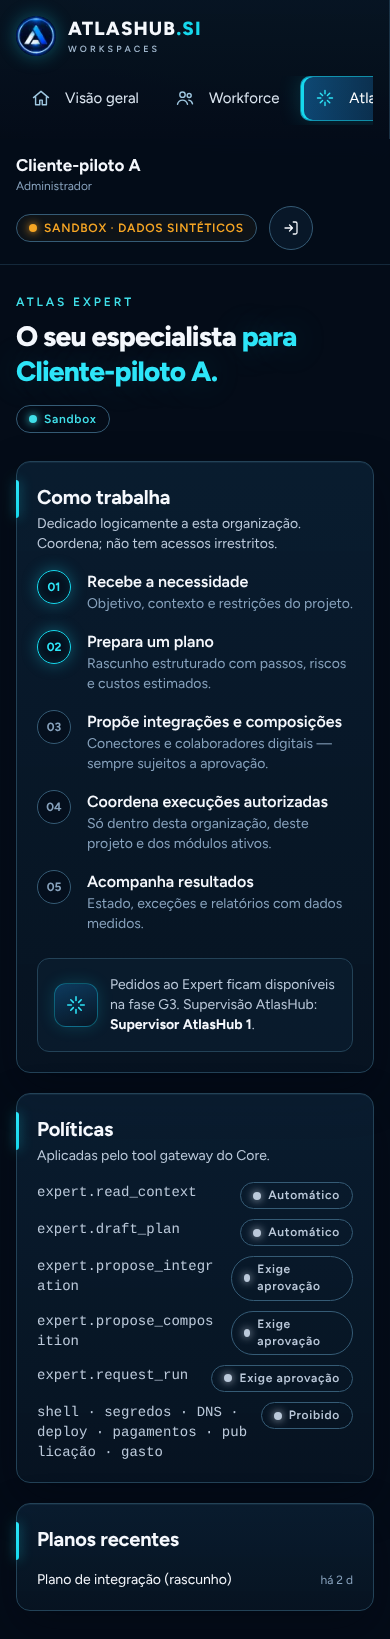
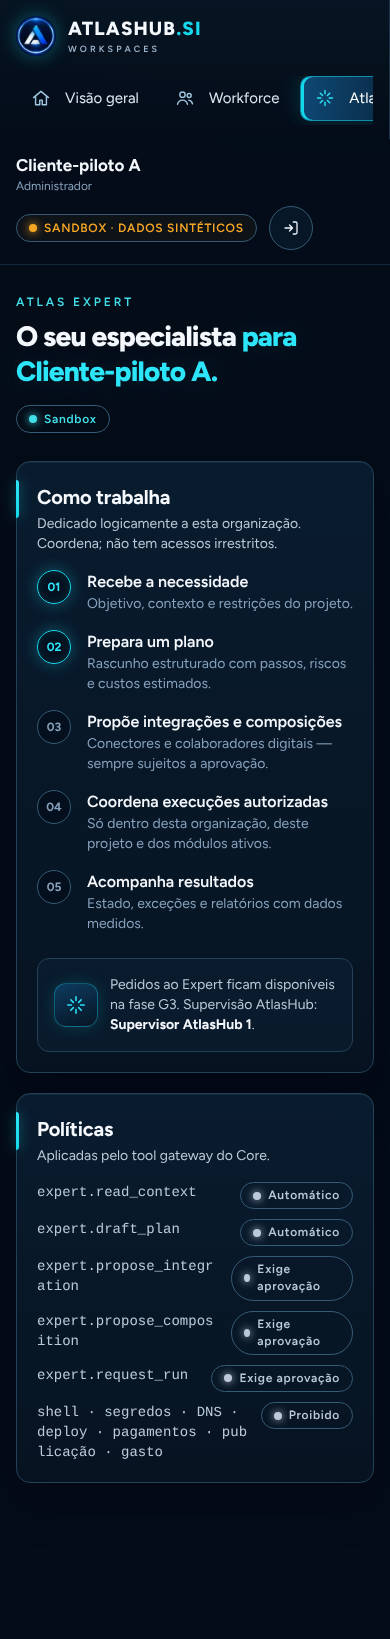
fix(codex): 403/404 do Core → 404; dados reais vs sintéticos; limite de runs; alvos 44 px
P1 — onCoreError mapeia 403/404 para notFound() (indistinguível de tenant
inexistente, ex.: membership revogada entre /v1/me e o pedido); outros erros
vão para um error boundary honesto ("Serviço indisponível"), nunca 500 cru.
P1 — isSynthetic(mode, membership): "em sandbox"/"dados sintéticos" só em
modo demo ou tenant marcado sandbox pelo Core; em modo api o resto é real.
P2 — HttpCore.runs envia limit e corta a página (igual ao DemoCore).
P2 — "Trocar", "Abrir" e "Ver Workforce" com alvo de 44 px (medido).
Testes 16/16; visual-check 29/29. Visual Pack sem alterações de tokens.

Claude-Session: https://claude.ai/code/session_01RiTWecs9GyFrENyGvLscb5

Changed region(s): [[0.0308, 0.9024, 0.4615, 0.9646]]

diff --git a/src/app/o/[tenant]/page.tsx b/src/app/o/[tenant]/page.tsx
@@ -10,7 +10,7 @@ export const metadata = { title: "Visão geral" };
 const MODULE_LABEL = { workforce: "Workforce", ami: "AMI", community: "Comunidade", media: "Media" } as const;
 
 export default async function Overview({ params }: { params: Promise<{ tenant: string }> }) {
-  const { core, membership, tenantId, modules } = await tenantContext(params);
+  const { core, membership, tenantId, modules, synthetic } = await tenantContext(params);
   const now = new Date();
   const [projects, deployments, runs, approvals, expert, roles] = await Promise.all([
     core.projects(tenantId),
@@ -39,9 +39,9 @@ export default async function Overview({ params }: { params: Promise<{ tenant: s
 
       <div className="grid gap-4 sm:grid-cols-2 xl:grid-cols-4">
         <Kpi icon="folder" label="Projetos" value={String(projects.length)} delay={0.05} />
-        <Kpi icon="team" label="Colaboradores digitais" value={String(workers.length)} note="em sandbox" delay={0.1} />
+        <Kpi icon="team" label="Colaboradores digitais" value={String(workers.length)} note={synthetic ? "em sandbox" : undefined} delay={0.1} />
         <Kpi icon="check" label="Aprovações pendentes" value={String(pending)} delay={0.15} />
-        <Kpi icon="chart" label="Execuções recentes" value={String(runs.length)} note="dados sintéticos" delay={0.2} />
+        <Kpi icon="chart" label="Execuções recentes" value={String(runs.length)} note={synthetic ? "dados sintéticos" : undefined} delay={0.2} />
       </div>
 
       <div className="mt-6 grid grid-cols-1 gap-5 xl:grid-cols-[1.6fr_1fr]">
@@ -77,7 +77,7 @@ export default async function Overview({ params }: { params: Promise<{ tenant: s
           subtitle="O seu ponto de contacto: recebe necessidades, propõe planos e integrações."
           delay={0.2}
           action={
-            <Link href={`${base}/expert`} className="text-sm font-semibold text-cyan3 hover:text-fg">
+            <Link href={`${base}/expert`} className="inline-flex min-h-11 items-center text-sm font-semibold text-cyan3 hover:text-fg">
               Abrir →
             </Link>
           }
@@ -87,7 +87,7 @@ export default async function Overview({ params }: { params: Promise<{ tenant: s
               <Icon name="spark" size={22} />
             </span>
             <div>
-              <div className="font-semibold">{expert.enabled ? "Disponível em sandbox" : "Não provisionado"}</div>
+              <div className="font-semibold">{expert.enabled ? (synthetic ? "Disponível em sandbox" : "Disponível") : "Não provisionado"}</div>
               <div className="text-xs text-dim">Supervisão: {expert.supervisor?.displayName ?? "—"}</div>
             </div>
           </div>
@@ -108,7 +108,7 @@ export default async function Overview({ params }: { params: Promise<{ tenant: s
         className="mt-5"
         delay={0.25}
         action={
-          <Link href={`${base}/workforce`} className="text-sm font-semibold text-cyan3 hover:text-fg">
+          <Link href={`${base}/workforce`} className="inline-flex min-h-11 items-center text-sm font-semibold text-cyan3 hover:text-fg">
             Ver Workforce →
           </Link>
         }

diff --git a/src/app/o/[tenant]/ami/page.tsx b/src/app/o/[tenant]/ami/page.tsx
@@ -4,7 +4,7 @@ import { tenantContext } from "@/lib/tenant";
 export const metadata = { title: "AMI" };
 
 export default async function Ami({ params }: { params: Promise<{ tenant: string }> }) {
-  const { core, membership, modules } = await tenantContext(params);
+  const { core, membership, modules, synthetic } = await tenantContext(params);
   if (!modules.includes("ami")) return <Locked module="AMI" tenantName={membership.name} />;
   const roles = await core.roles();
   const packs = roles.filter((r) => r.id.startsWith("AMI-"));
@@ -14,7 +14,7 @@ export default async function Ami({ params }: { params: Promise<{ tenant: string
       <div className="grid grid-cols-1 gap-5 xl:grid-cols-[1.4fr_1fr]">
         <Panel title="Recolhas" subtitle="Anúncios e ofertas de fontes autorizadas (schema ami.ads.v1)." delay={0.05}>
           <p className="rounded-xl border border-dashed border-line2 px-4 py-8 text-center text-sm text-dim">
-            Módulo ativo em sandbox. As recolhas reais entram no gate G3: fonte autorizada, custo observável por recolha e aprovação antes de qualquer gasto.
+            {synthetic ? "Módulo ativo em sandbox." : "Módulo ativo."} As recolhas reais entram no gate G3: fonte autorizada, custo observável por recolha e aprovação antes de qualquer gasto.
           </p>
         </Panel>
         <Panel title="Composição do módulo" subtitle="Roles/Packs reutilizáveis do catálogo único." delay={0.1}>

diff --git a/src/app/error.tsx b/src/app/error.tsx
@@ -1,0 +1,25 @@
+"use client";
+
+import Link from "next/link";
+
+// Any failure that is not an access decision (5xx, timeout, network) lands here: an honest message instead of
+// a blank 500, and never stale or invented data. Access denials (401/403/404) are mapped before reaching this.
+export default function ErrorState({ reset }: { error: Error & { digest?: string }; reset: () => void }) {
+  return (
+    <main className="ah-page flex min-h-screen items-center justify-center px-4">
+      <div role="alert" className="ah-card ah-bar max-w-[480px] p-8">
+        <p className="ah-eyebrow">Serviço indisponível</p>
+        <h1 className="mt-2 text-2xl font-bold">Não foi possível carregar os dados.</h1>
+        <p className="mt-2 text-mute">O AtlasHub Core não respondeu a tempo. Tente de novo dentro de momentos.</p>
+        <div className="mt-6 flex flex-wrap gap-3">
+          <button type="button" onClick={reset} className="ah-btn">
+            Tentar de novo
+          </button>
+          <Link href="/" className="ah-btn-quiet">
+            Organizações
+          </Link>
+        </div>
+      </div>
+    </main>
+  );
+}

diff --git a/src/lib/session.ts b/src/lib/session.ts
@@ -1,6 +1,6 @@
 import "server-only";
 import { cookies } from "next/headers";
-import { redirect } from "next/navigation";
+import { notFound, redirect } from "next/navigation";
 import { CoreError } from "./contract.ts";
 import { DemoCore } from "./core/demo.ts";
 import { HttpCore } from "./core/http.ts";
@@ -31,8 +31,13 @@ export async function requireCore(): Promise<Core> {
   return new HttpCore(base, token);
 }
 
-/** Maps Core errors to navigation: 401 → login; 403/404 → caller decides (notFound / locked). */
+/**
+ * Maps Core errors to navigation: 401 → login; 403/404 → 404, indistinguishable from a tenant that does not
+ * exist (membership revoked between /v1/me and the tenant call, or a tenant the caller never had). Anything
+ * else (5xx, network) is rethrown and rendered by the error boundary as "Core indisponível", never as data.
+ */
 export function onCoreError(e: unknown): never {
   if (e instanceof CoreError && e.status === 401) redirect("/login");
+  if (e instanceof CoreError && (e.status === 403 || e.status === 404)) notFound();
   throw e;
 }

diff --git a/src/app/o/[tenant]/community/page.tsx b/src/app/o/[tenant]/community/page.tsx
@@ -4,7 +4,7 @@ import { tenantContext } from "@/lib/tenant";
 export const metadata = { title: "Comunidade" };
 
 export default async function Community({ params }: { params: Promise<{ tenant: string }> }) {
-  const { membership, modules } = await tenantContext(params);
+  const { membership, modules, synthetic } = await tenantContext(params);
   if (!modules.includes("community")) return <Locked module="Community" tenantName={membership.name} />;
   return (
     <>
@@ -15,7 +15,7 @@ export default async function Community({ params }: { params: Promise<{ tenant: 
           <li>Escalonamento humano obrigatório; sem conselho médico nem ações autónomas de saúde.</li>
           <li>Dados de membros nunca saem desta organização.</li>
         </ul>
-        <p className="mt-4 text-xs text-dim">Em sandbox: sem membros nem conversas reais.</p>
+        {synthetic && <p className="mt-4 text-xs text-dim">Em sandbox: sem membros nem conversas reais.</p>}
       </Panel>
     </>
   );

diff --git a/src/lib/tenant.ts b/src/lib/tenant.ts
@@ -1,6 +1,6 @@
 import "server-only";
 import { notFound } from "next/navigation";
-import { membershipFor } from "./access.ts";
+import { isSynthetic, membershipFor } from "./access.ts";
 import { onCoreError, requireCore } from "./session.ts";
 
 /** Resolves the tenant route param against the caller's memberships and entitlements (Core is the authority). */
@@ -11,5 +11,5 @@ export async function tenantContext(params: Promise<{ tenant: string }>) {
   const membership = membershipFor(me, decodeURIComponent(tenant));
   if (!membership) notFound();
   const ent = await core.entitlements(membership.tenantId).catch(onCoreError);
-  return { core, me, membership, tenantId: membership.tenantId, modules: ent.modules, entitlements: ent };
+  return { core, me, membership, tenantId: membership.tenantId, modules: ent.modules, entitlements: ent, synthetic: isSynthetic(core.mode, membership) };
 }

diff --git a/src/lib/core/http.ts b/src/lib/core/http.ts
@@ -49,7 +49,8 @@ export class HttpCore implements Core {
     return this.get<Deployment[]>(`/v1/tenants/${encodeURIComponent(tenant)}/deployments`);
   }
   runs(tenant: string, opts: { state?: RunState; deploymentId?: string; limit?: number } = {}) {
-    return this.get<Run[]>("/v1/runs", { tenant, state: opts.state, deploymentId: opts.deploymentId });
+    // The Core may ignore unknown query params or cap the page differently: slice so API mode matches demo mode.
+    return this.get<Run[]>("/v1/runs", { tenant, state: opts.state, deploymentId: opts.deploymentId, limit: opts.limit }).then((rows) => (opts.limit === undefined ? rows : rows.slice(0, opts.limit)));
   }
   approvals(tenant: string) {
     return this.get<Approval[]>("/v1/approvals", { tenant });

diff --git a/src/lib/access.ts b/src/lib/access.ts
@@ -22,6 +22,14 @@ export function modulesFrom(keys: string[]): Module[] {
   return MODULES.filter((m) => set.has(m));
 }
 
+/**
+ * Synthetic means fixtures (demo mode) or a tenant the Core flags as sandbox. Anything else is presented as
+ * real data: a production tenant must never see its activity labelled as disposable test data.
+ */
+export function isSynthetic(mode: "demo" | "api", membership: { sandbox?: boolean }) {
+  return mode === "demo" || membership.sandbox === true;
+}
+
 export function membershipFor(me: Me, tenantId: string): MembershipSummary | undefined {
   return me.memberships.find((m) => m.tenantId === tenantId);
 }

diff --git a/src/app/o/[tenant]/layout.tsx b/src/app/o/[tenant]/layout.tsx
@@ -26,7 +26,7 @@ export default async function TenantLayout({ children, params }: { children: Rea
               <div className="text-xs text-dim">{ROLE_LABEL[membership.role]}</div>
             </div>
             {me.memberships.length > 1 && (
-              <Link href="/" className="ah-btn-quiet min-h-10! px-3! text-sm!" aria-label="Trocar de organização">
+              <Link href="/" className="ah-btn-quiet px-3! text-sm!" aria-label="Trocar de organização">
                 <Icon name="switch" size={16} /> Trocar
               </Link>
             )}

diff --git a/tests/core-errors.test.ts b/tests/core-errors.test.ts
@@ -1,0 +1,10 @@
+import { test } from "node:test";
+import assert from "node:assert/strict";
+import { isSynthetic } from "../src/lib/access.ts";
+
+test("only demo mode or a Core-flagged sandbox tenant is labelled synthetic", () => {
+  assert.equal(isSynthetic("demo", {}), true);
+  assert.equal(isSynthetic("api", { sandbox: true }), true);
+  assert.equal(isSynthetic("api", { sandbox: false }), false);
+  assert.equal(isSynthetic("api", {}), false, "unknown → treated as real, never as disposable test data");
+});
